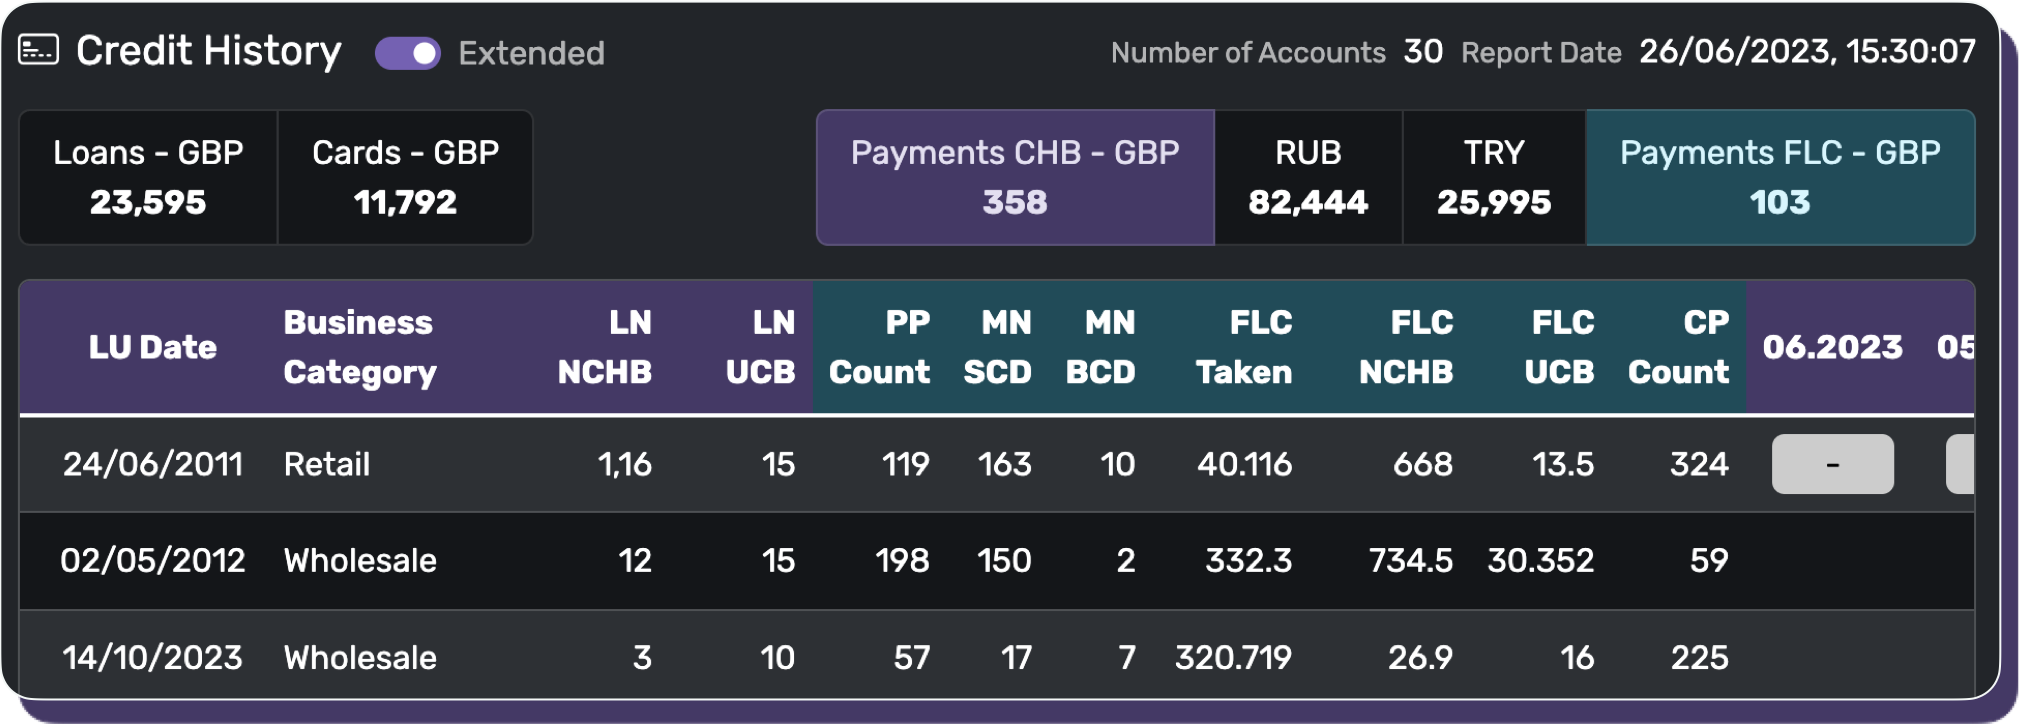
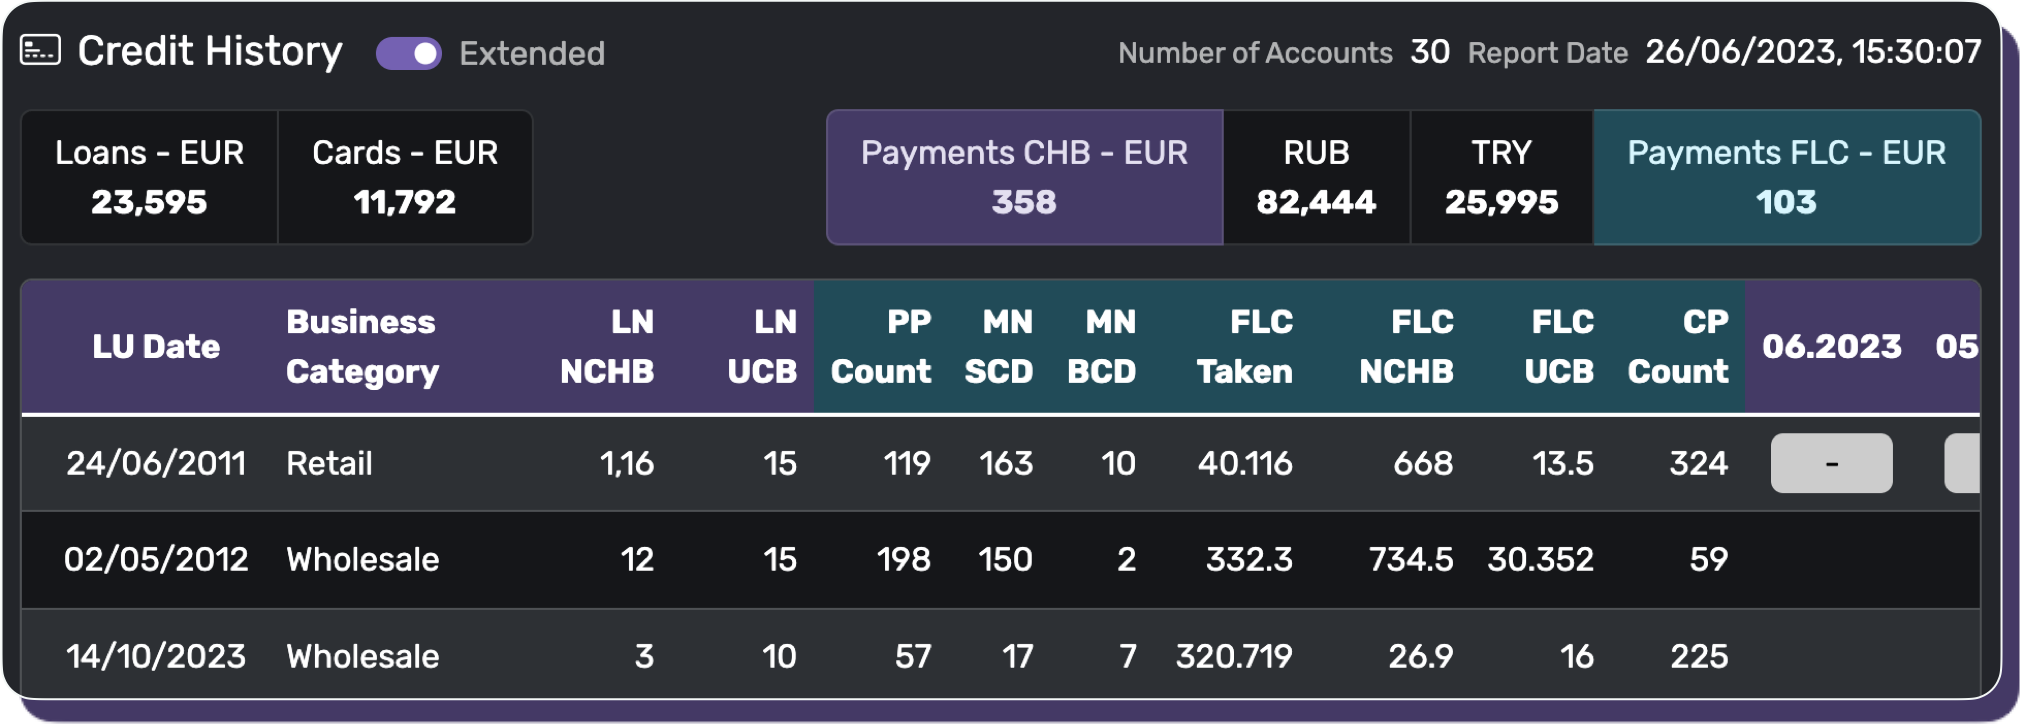
DEV-134 Change GBP to EUR

diff --git a/src/components/CreditHistory/utils.ts b/src/components/CreditHistory/utils.ts
@@ -62,12 +62,12 @@ export class TimePeriod {
 
 export const obligationFields: AmountField[] = [
     { sysName: "chbLoansAmount", type: "loan" },
-    { sysName: "chbLoansAmountGbp", country: "gb", hide: true, type: "loan" },
+    { sysName: "chbLoansAmountEur", country: "gb", hide: true, type: "loan" },
     { sysName: "chbLoansAmountRub", country: "ru", hide: true, type: "loan" },
     { sysName: "chbLoansAmountTry", country: "tr", hide: true, type: "loan" },
     { sysName: "chbCreditCardsAmount", type: "card" },
     {
-        sysName: "chbCreditCardsAmountGbp",
+        sysName: "chbCreditCardsAmountEur",
         country: "gb",
         hide: true,
         type: "card",
@@ -88,7 +88,7 @@ export const obligationFields: AmountField[] = [
 
 export const paymentFields: AmountContextField[] = [
     { sysName: "chbPaymentsAmount", type: "chb", context: "primary" },
-    { sysName: "chbPaymentsAmountGbp", type: "chb", country: "gb" },
+    { sysName: "chbPaymentsAmountEur", type: "chb", country: "gb" },
     { sysName: "chbPaymentsAmountRub", type: "chb", country: "ru" },
     { sysName: "chbPaymentsAmountTry", type: "chb", country: "tr" },
     {
@@ -98,7 +98,7 @@ export const paymentFields: AmountContextField[] = [
         context: "info",
     },
     {
-        sysName: "flcPaymentsAmountGbp",
+        sysName: "flcPaymentsAmountEur",
         type: "flc",
         extended: true,
         country: "gb",

diff --git a/src/types/Report.ts b/src/types/Report.ts
@@ -1,15 +1,15 @@
 export interface Commons extends Record<string, string | number> {
     reportId: string;
-    chbCreditCardsAmountGbp: number;
+    chbCreditCardsAmountEur: number;
     chbCreditCardsAmountRub: number;
     chbCreditCardsAmountTry: number;
-    chbLoansAmountGbp: number;
+    chbLoansAmountEur: number;
     chbLoansAmountRub: number;
     chbLoansAmountTry: number;
-    chbPaymentsAmountGbp: number;
+    chbPaymentsAmountEur: number;
     chbPaymentsAmountRub: number;
     chbPaymentsAmountTry: number;
-    flcPaymentsAmountGbp: number;
+    flcPaymentsAmountEur: number;
     flcPaymentsAmountRub: number;
     flcPaymentsAmountTry: number;
     score: number;

diff --git a/README.md b/README.md
@@ -89,7 +89,7 @@ The "Report List" page showcases all available credit reports. By selecting a cl
 The "Report" page consists of two main panels:
 
 1. **Personal Data**: Displays the application number, creation date, and the client’s passport data, along with loan requests and credit score details.
-2. **Credit History**: Provides information on loans, including total amounts and monthly payments, with data presented in various currencies (GBP, RUB, TRY).
+2. **Credit History**: Provides information on loans, including total amounts and monthly payments, with data presented in various currencies (EUR, RUB, TRY).
 
 <img width="800" alt="Report Page" src="/docs/images/pages/reportPage.png">
 
